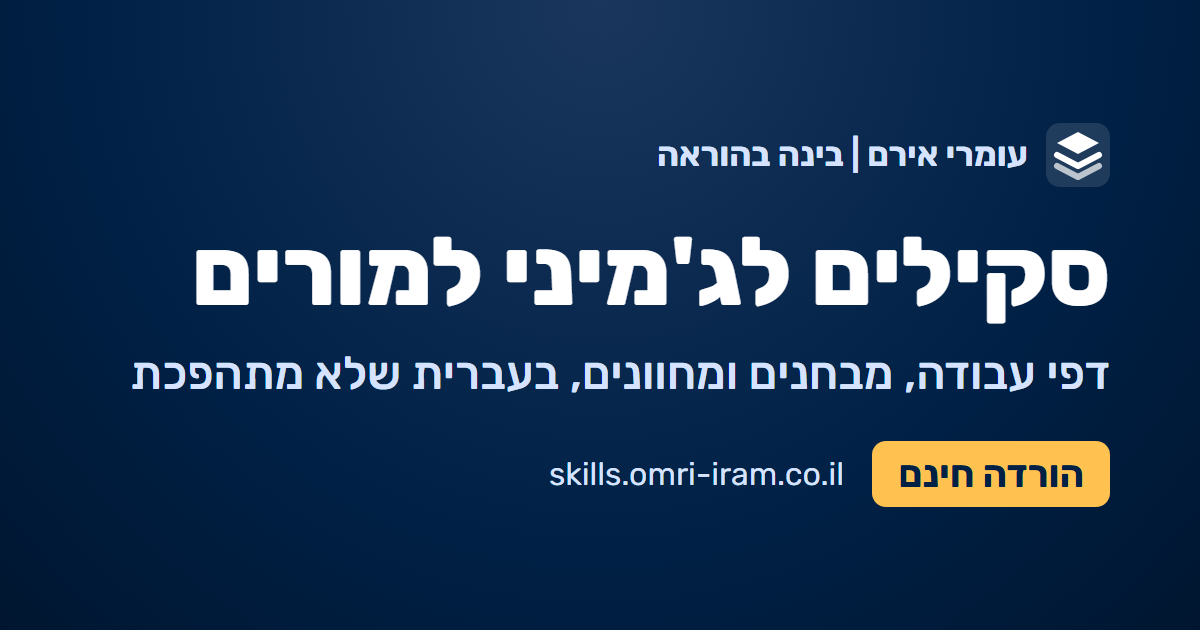
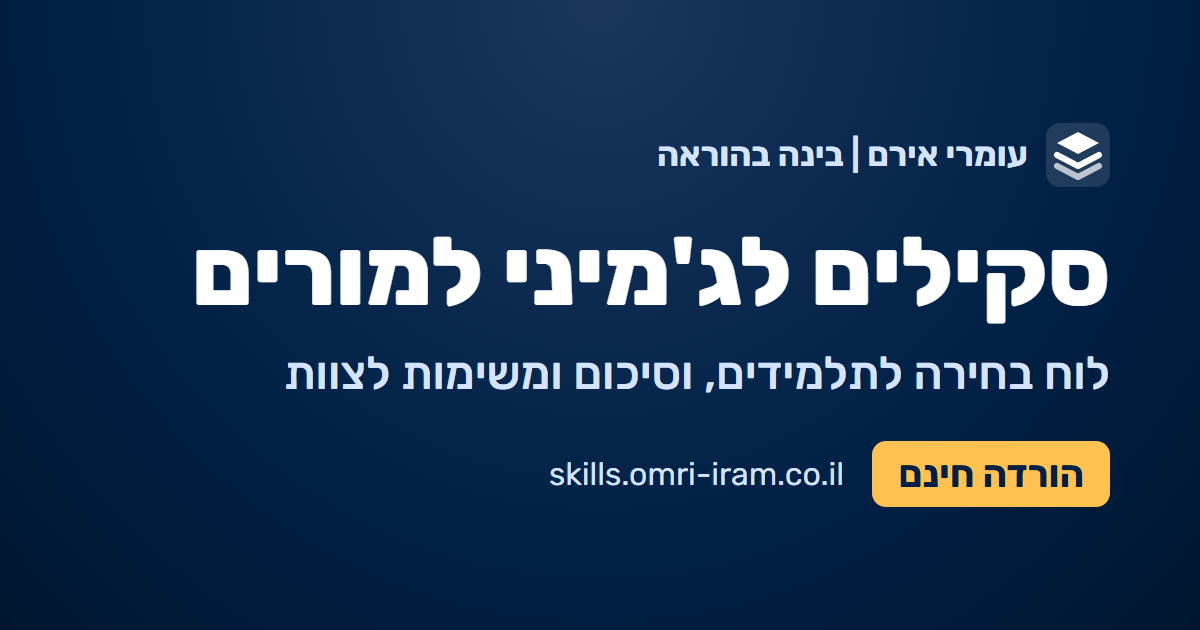
Home lead, description and share picture match the 3 skills left (no worksheet promise)

Changed region(s): [[0.0925, 0.573, 0.925, 0.6333]]

diff --git a/build.js b/build.js
@@ -318,7 +318,7 @@ const homeBody = `
 <section class="hero"><div class="wrap hero-in">
   <div class="hero-text">
     <h1>חוסכים שעות עבודה בכל שבוע,<br class="br-wide"> עם Gemini Skills.</h1>
-    <p class="lead">דף עבודה או לוח בחירה מג'מיני, מוכן להדפסה. עברית שלא מתהפכת ומפתח תשובות שנבדק. חינם, בלי הרשמה.</p>
+    <p class="lead">לוח בחירה לתלמידים, וסיכום ומשימות לצוות, מוכנים מג'מיני תוך דקה. חינם, בלי הרשמה.</p>
     <p class="proof">${PROOF_LINE}</p>
     <ol class="steps">
       <li><span><b>מורידים</b> חבילה או סקיל</span></li>
@@ -382,7 +382,7 @@ ${signupSection}
 
 write('index.html', page({
   title: 'סקילים למורים | עומרי אירם',
-  description: `${mains.length} סקילים לג'מיני למורים בכל המקצועות: דפי עבודה, לוחות בחירה, ניתוח ציונים ומכתבים להורים, בעברית שלא מתהפכת. הורדה חינם, בלי הרשמה.`,
+  description: `${mains.length} סקילים לג'מיני למורים ולצוותי הנהלה: לוח בחירה לתלמידים, וסיכום ומשימות לצוות. כל סקיל עבר בדיקה של 25 בקשות. הורדה חינם, בלי הרשמה.`,
   canonical: '/',
   body: homeBody,
 }));

diff --git a/deploy/og/og.html b/deploy/og/og.html
@@ -29,7 +29,7 @@ h1 { font-size: 96px; font-weight: 800; line-height: 1.08; margin: 0 0 22px; }
     <span class="brand">עומרי אירם | בינה בהוראה</span>
   </div>
   <h1>סקילים לג'מיני למורים</h1>
-  <p class="line">דפי עבודה, מבחנים ומחוונים, בעברית שלא מתהפכת</p>
+  <p class="line">לוח בחירה לתלמידים, וסיכום ומשימות לצוות</p>
   <div class="row">
     <span class="tag">הורדה חינם</span>
     <span class="url">skills.omri-iram.co.il</span>
